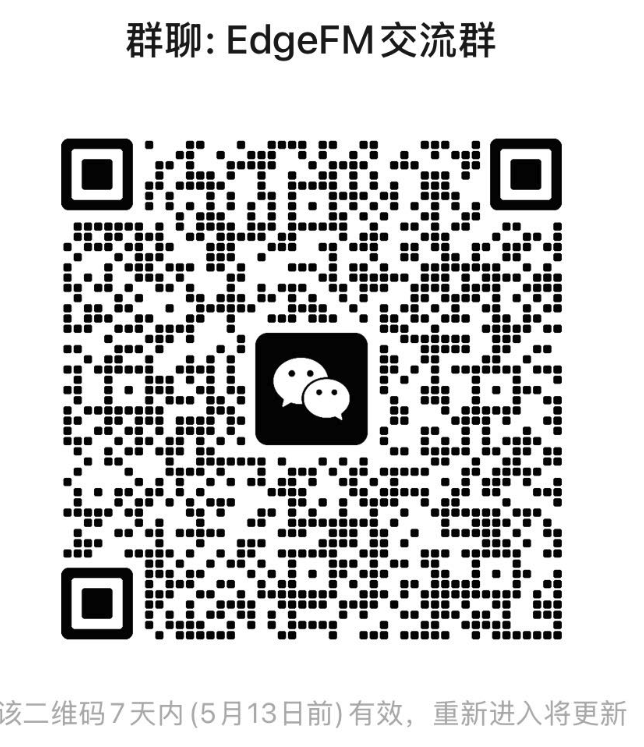
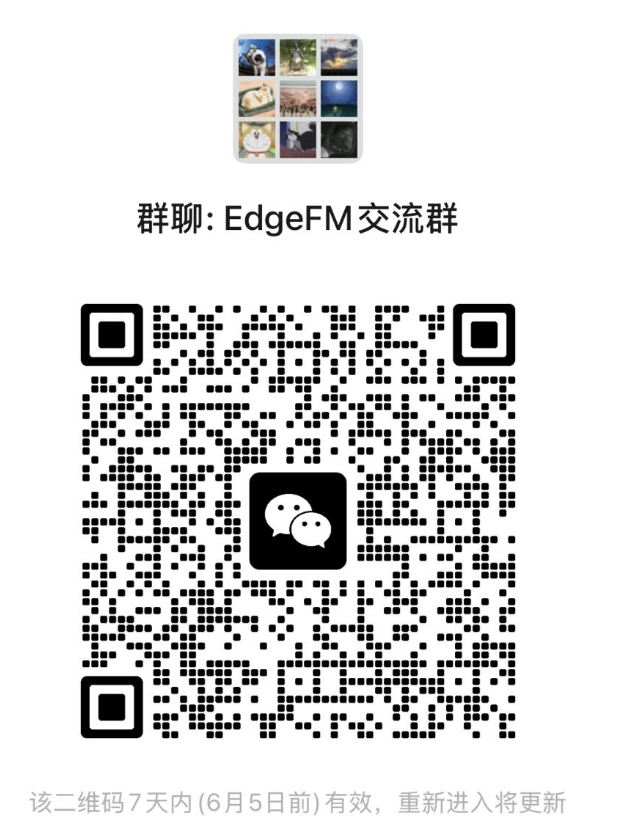
docs: update contact info and refresh WeChat QR code
Add email and GitHub Issues to contact section, add email badge to README header, and replace expired WeChat group QR code.

diff --git a/README.md b/README.md
@@ -4,6 +4,7 @@
 [![CMake](https://img.shields.io/badge/CMake-3.15+-green.svg)](https://cmake.org/)
 [![C++](https://img.shields.io/badge/C++-17-blue.svg)](https://en.cppreference.com/)
 [![CUDA](https://img.shields.io/badge/CUDA-Required-orange.svg)](https://developer.nvidia.com/cuda-toolkit)
+[![Email](https://img.shields.io/badge/contact-chenyuanpeng%40xingshentech.com-blue.svg)](mailto:chenyuanpeng@xingshentech.com)
 
 EdgeFM（Edge Foundation Model）是一个专为边缘端场景优化的通用大模型推理引擎。EdgeFM 针对边缘端推理的独特需求，提供高效的多模态理解、语言生成和决策推理能力，广泛应用于自动驾驶、具身智能、机器人控制等边缘端智能系统，助力边缘端大模型应用的快速部署。
 
@@ -386,7 +387,12 @@ CUDA 平台仍保留 CUTLASS/source-op 作为高性能 kernel 的离线优化与
 
 ## 联系方式
 
-如有问题或建议，请通过 Issue 联系我们，或扫码加入社区交流群：
+如有问题或建议，欢迎通过以下方式联系我们：
+
+- 邮箱：[chenyuanpeng@xingshentech.com](mailto:chenyuanpeng@xingshentech.com)
+- Issue：[GitHub Issues](https://github.com/windog-labs/edge-fm-x/issues)
+
+也可扫码加入社区交流群：
 
 <p align="center">
   <img src="doc/社区交流群.png" width="240" />
